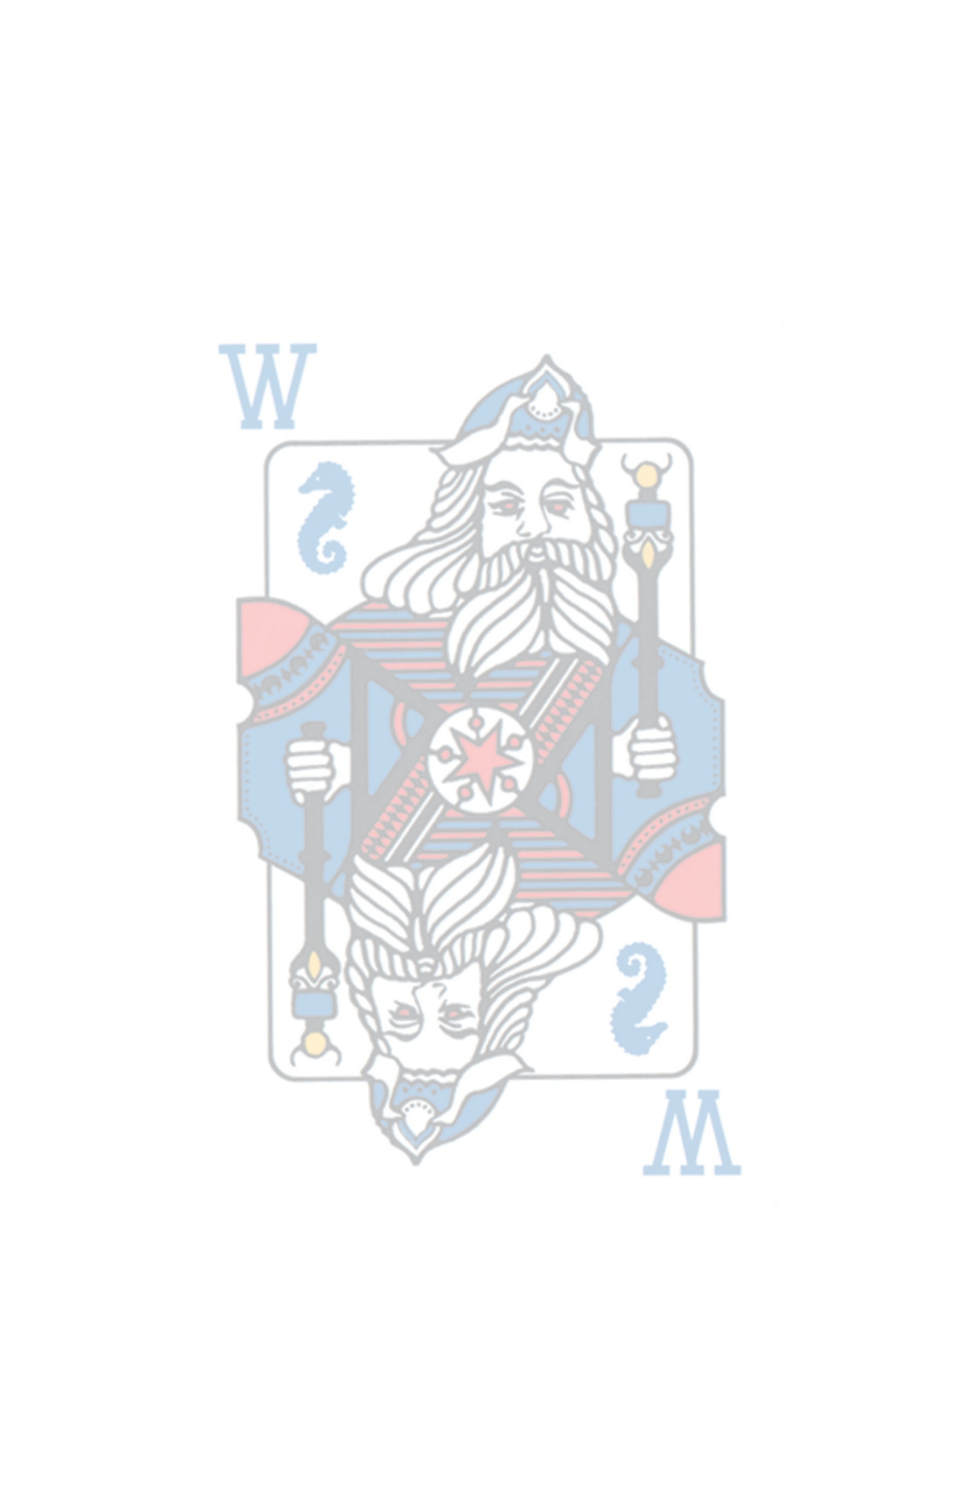
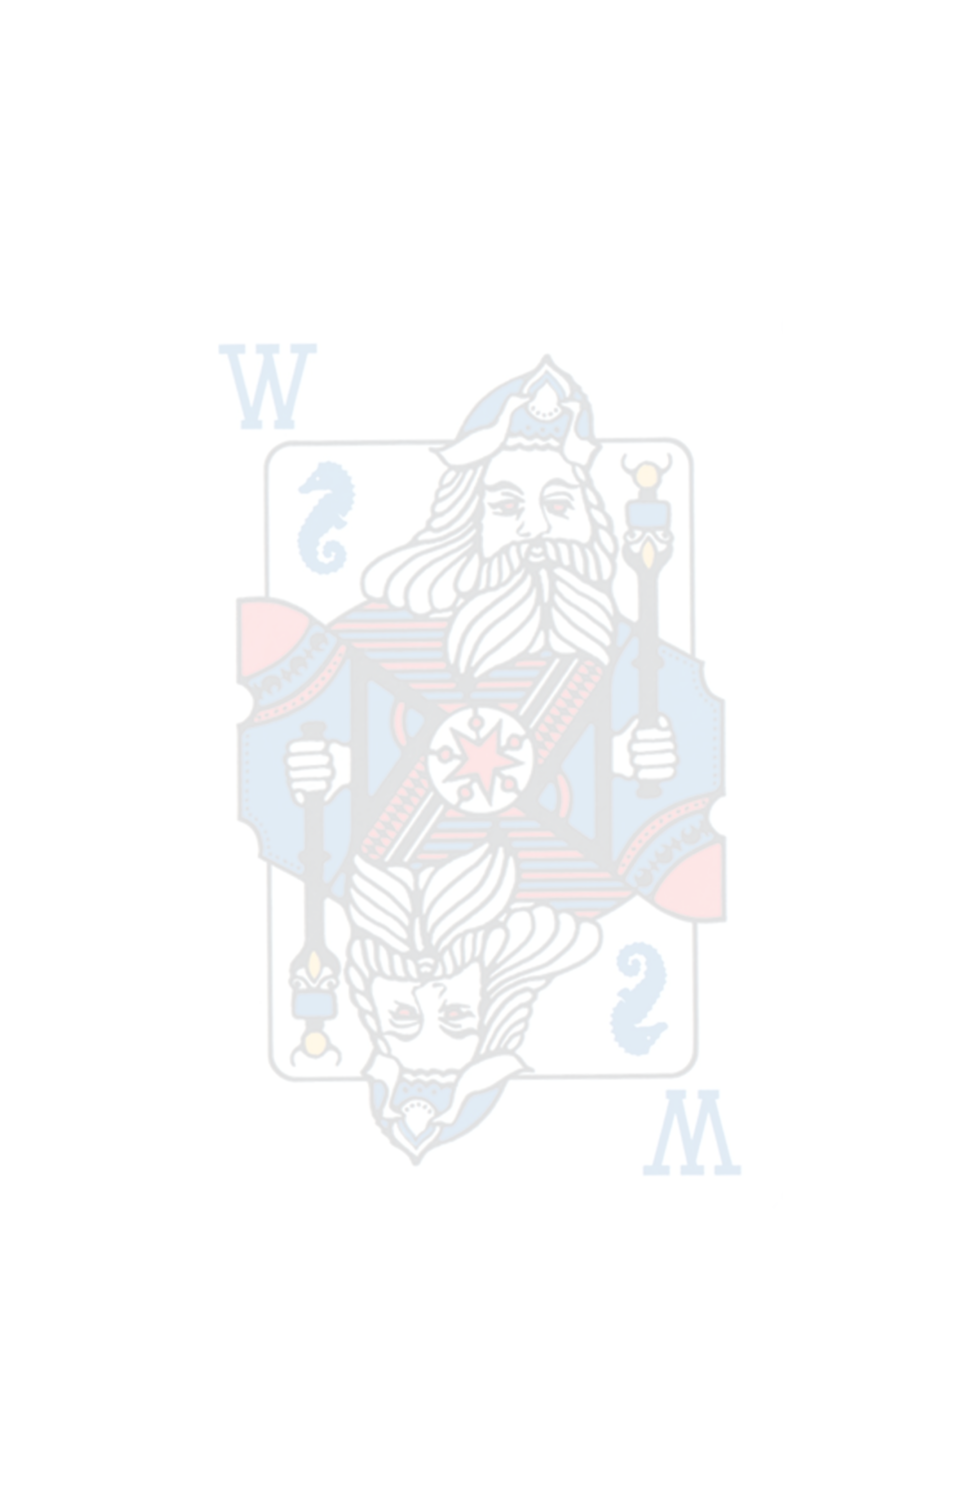
Use flat design; add background

Changed region(s): [[0.249, 0.2453, 0.778, 0.7973], [0.2178, 0.2147, 0.3423, 0.3373], [0.6846, 0.276, 0.7158, 0.3067]]

diff --git a/app/screens/round_result.js b/app/screens/round_result.js
@@ -1,5 +1,5 @@
 import React, { Component } from 'react';
-import { View, StyleSheet, FlatList, Text, TextInput } from 'react-native';
+import { View, StyleSheet, FlatList, Image, Text, TextInput } from 'react-native';
 import { Button } from 'react-native-elements';
 import { PlayerHit } from '../components/player_hit.js';
 import Rankings from '../components/rankings.js';
@@ -112,11 +112,30 @@ export class RoundResultScreen extends Component {
         menu={<Rankings players={this.state.players} />}
         menuPosition='right'
         edgeHitWidth={64}>
-        <View style={{flex: 1, backgroundColor: '#E8EAF6'}}>
+        <Image
+          source={require('../../assets/wizard-bg.png')}
+          style={{
+            flex: 1,
+            backgroundColor: '#FFFFFF',
+            width: undefined,
+            height: undefined,
+            flexDirection: 'column',
+          }}
+          resizeMode="contain">
           <FlatList
             data={this.state.players}
             renderItem={this._renderItem.bind(this)}
             keyExtractor={item => { return item.id; }}
+            ItemSeparatorComponent={() => {
+              return (
+                <View
+                  style={{
+                    height: 1,
+                    backgroundColor: '#CED0CE',
+                  }}
+                />
+              );
+            }}
           />
           <Text style={{
             textAlign: 'center',
@@ -135,7 +154,7 @@ export class RoundResultScreen extends Component {
             textStyle={{textAlign: 'center'}}
             onPress={this._nextRound.bind(this)}
           />
-        </View>
+        </Image>
       </SideMenu>
     );
   }

diff --git a/app/screens/round.js b/app/screens/round.js
@@ -1,5 +1,5 @@
 import React, { Component } from 'react';
-import { View, StyleSheet, FlatList, ListView, Text, TextInput } from 'react-native';
+import { View, StyleSheet, FlatList, ListView, Image, Text, TextInput } from 'react-native';
 import { Button, Card } from 'react-native-elements';
 import { PlayerBet } from '../components/player_bet.js';
 import Rankings from '../components/rankings.js';
@@ -101,16 +101,30 @@ export class RoundScreen extends Component {
         menu={<Rankings players={this.state.players} />}
         menuPosition='right'
         edgeHitWidth={64}>
-        <View
+        <Image
+          source={require('../../assets/wizard-bg.png')}
           style={{
             flex: 1,
+            backgroundColor: '#FFFFFF',
+            width: undefined,
+            height: undefined,
             flexDirection: 'column',
-            backgroundColor: '#E8EAF6'
-          }}>
+          }}
+          resizeMode="contain">
           <FlatList
             data={this.state.players}
             renderItem={this._renderItem}
             keyExtractor={item => item.id}
+            ItemSeparatorComponent={() => {
+              return (
+                <View
+                  style={{
+                    height: 1,
+                    backgroundColor: '#CED0CE',
+                  }}
+                />
+              );
+            }}
           />
           <Text style={{
             textAlign: 'center',
@@ -129,7 +143,7 @@ export class RoundScreen extends Component {
             textStyle={{textAlign: 'center'}}
             onPress={this._finalize.bind(this)}
           />
-        </View>
+        </Image>
       </SideMenu>
     );
   }

diff --git a/app/screens/result.js b/app/screens/result.js
@@ -1,5 +1,5 @@
 import React, { Component } from 'react';
-import { View, StyleSheet, FlatList, Text, TextInput, Button } from 'react-native';
+import { View, StyleSheet, FlatList, Text, Image, TextInput, Button } from 'react-native';
 import { ListItem } from '../components/list_item.js';
 
 export class ResultScreen extends Component {
@@ -34,18 +34,34 @@ export class ResultScreen extends Component {
 
   render() {
     return (
-      <View style={{
-        flex: 1,
-        backgroundColor: '#E8EAF6'
-      }}>
+      <Image
+        source={require('../../assets/wizard-bg.png')}
+        style={{
+          flex: 1,
+          backgroundColor: '#FFFFFF',
+          width: undefined,
+          height: undefined,
+          flexDirection: 'column',
+        }}
+        resizeMode="contain">
         <FlatList
           data={this.state.players}
           renderItem={this._renderItem}
           keyExtractor={item => {
             return item.id;
           }}
+          ItemSeparatorComponent={() => {
+            return (
+              <View
+                style={{
+                  height: 1,
+                  backgroundColor: '#CED0CE',
+                }}
+              />
+            );
+          }}
         />
-      </View>
+      </Image>
     );
   }
 }

diff --git a/app/components/list_item.js b/app/components/list_item.js
@@ -5,13 +5,13 @@ import { Button, Card } from 'react-native-elements';
 export class ListItem extends Component {
   render() {
     return (
-      <Card
-        flexDirection='row'
-        containerStyle={{
-          borderRadius: 8
+      <View
+        style={{
+          flex: 1,
+          flexDirection: 'row',
+          padding: 8
         }}>
         <View style={{
-          margin: 8,
           flexDirection: 'column',
           justifyContent: 'center',
           alignItems: 'flex-start',
@@ -25,7 +25,6 @@ export class ListItem extends Component {
           </Text>
         </View>
         <View style={{
-          margin: 8,
           flex: 1,
           flexDirection: 'column',
           justifyContent: 'center',
@@ -38,7 +37,7 @@ export class ListItem extends Component {
             {this.props.subtitle}
           </Text>
         </View>
-      </Card>
+      </View>
     );
   }
 }

diff --git a/app/components/player_hit.js b/app/components/player_hit.js
@@ -48,14 +48,13 @@ const styles = StyleSheet.create({
 export class PlayerHit extends Component {
   render() {
     return (
-      <Card
-        flexDirection='row'
-        containerStyle={
-          styles.roundedCorners
-        }
-        wrapperStyle={{
+      <View
+        style={{
+          flex: 1,
+          flexDirection: 'row',
           justifyContent: 'flex-start',
-          alignItems: 'center'
+          alignItems: 'center',
+          padding: 8,
         }}>
         <View style={
           styles.columnContainer
@@ -114,7 +113,7 @@ export class PlayerHit extends Component {
               onPress={() => this.props.onIncHit(this.props.index)} />
           </View>
         </View>
-      </Card>
+      </View>
     );
   }
 }

diff --git a/app/components/player_bet.js b/app/components/player_bet.js
@@ -29,14 +29,13 @@ const styles = StyleSheet.create({
 export class PlayerBet extends Component {
   render() {
     return (
-      <Card
-        flexDirection='row'
-        containerStyle={
-          styles.roundedCorners
-        }
-        wrapperStyle={{
+      <View
+        style={{
+          flex: 1,
+          flexDirection: 'row',
           justifyContent: 'flex-start',
-          alignItems: 'center'
+          alignItems: 'center',
+          padding: 8,
         }}>
         <Text style={
           styles.titleText
@@ -70,7 +69,7 @@ export class PlayerBet extends Component {
               onPress={() => this.props.onIncBet(this.props.index)} />
           </View>
         </View>
-      </Card>
+      </View>
     );
   }
 }
